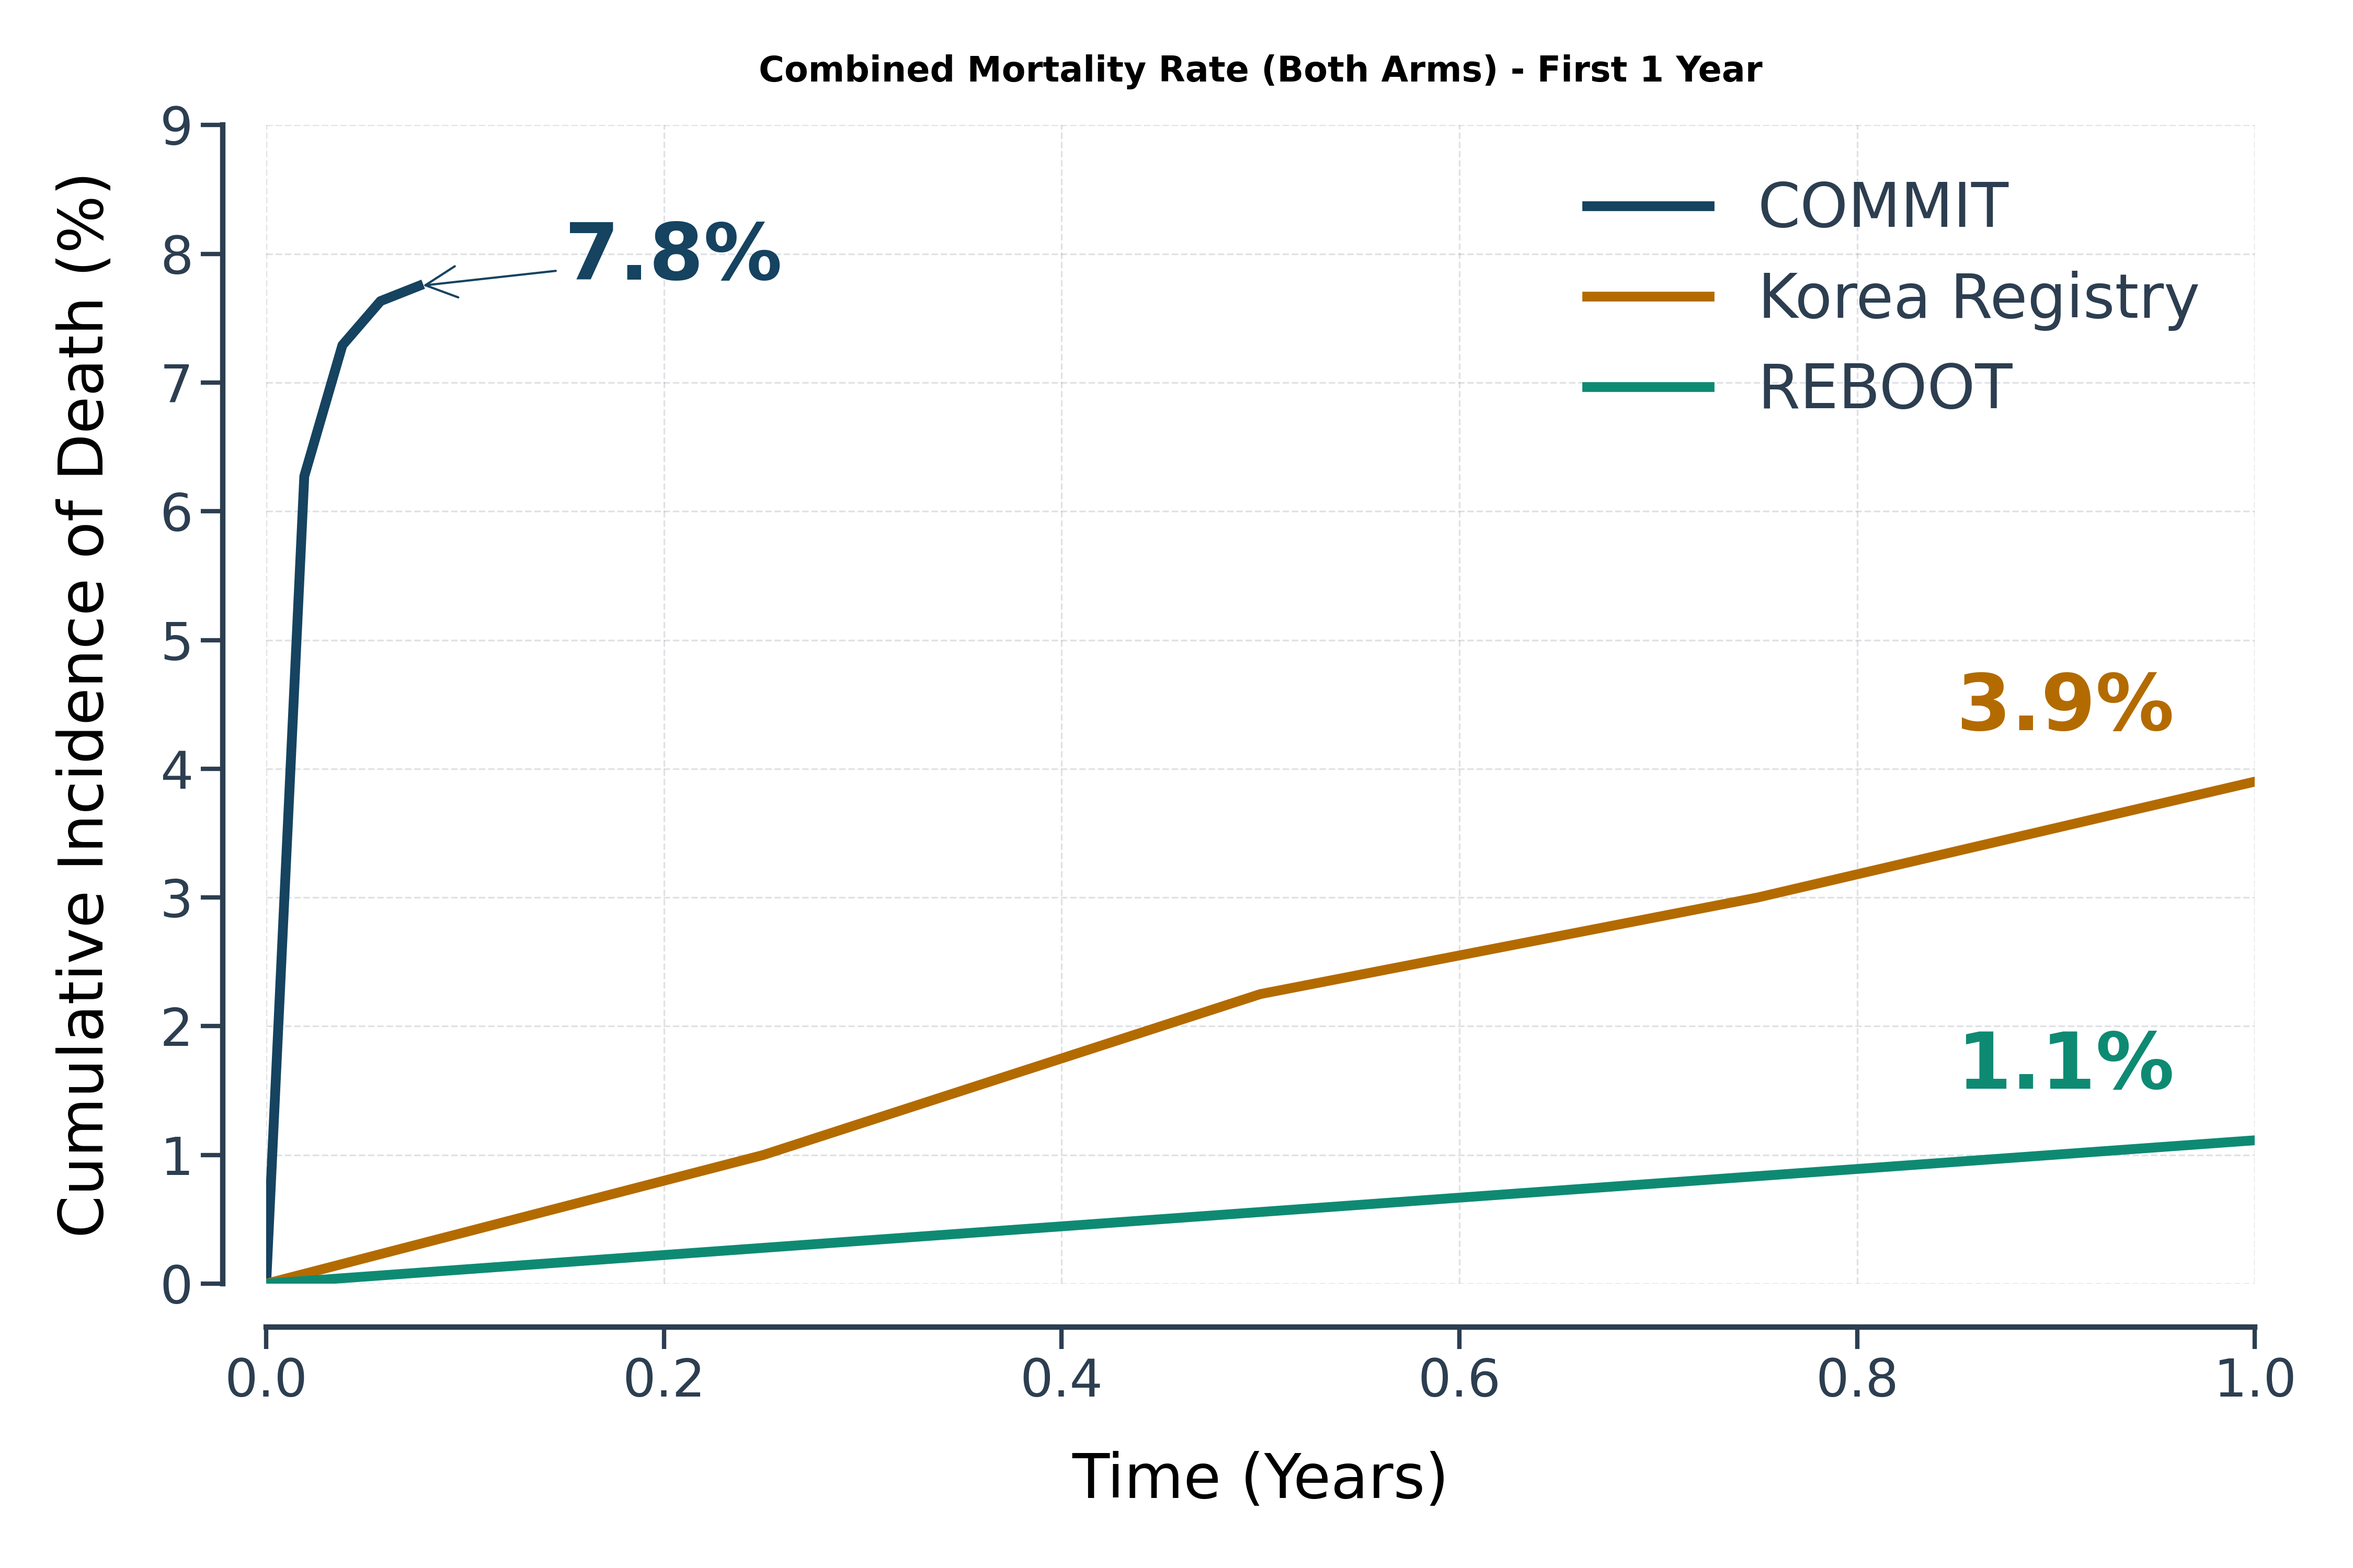
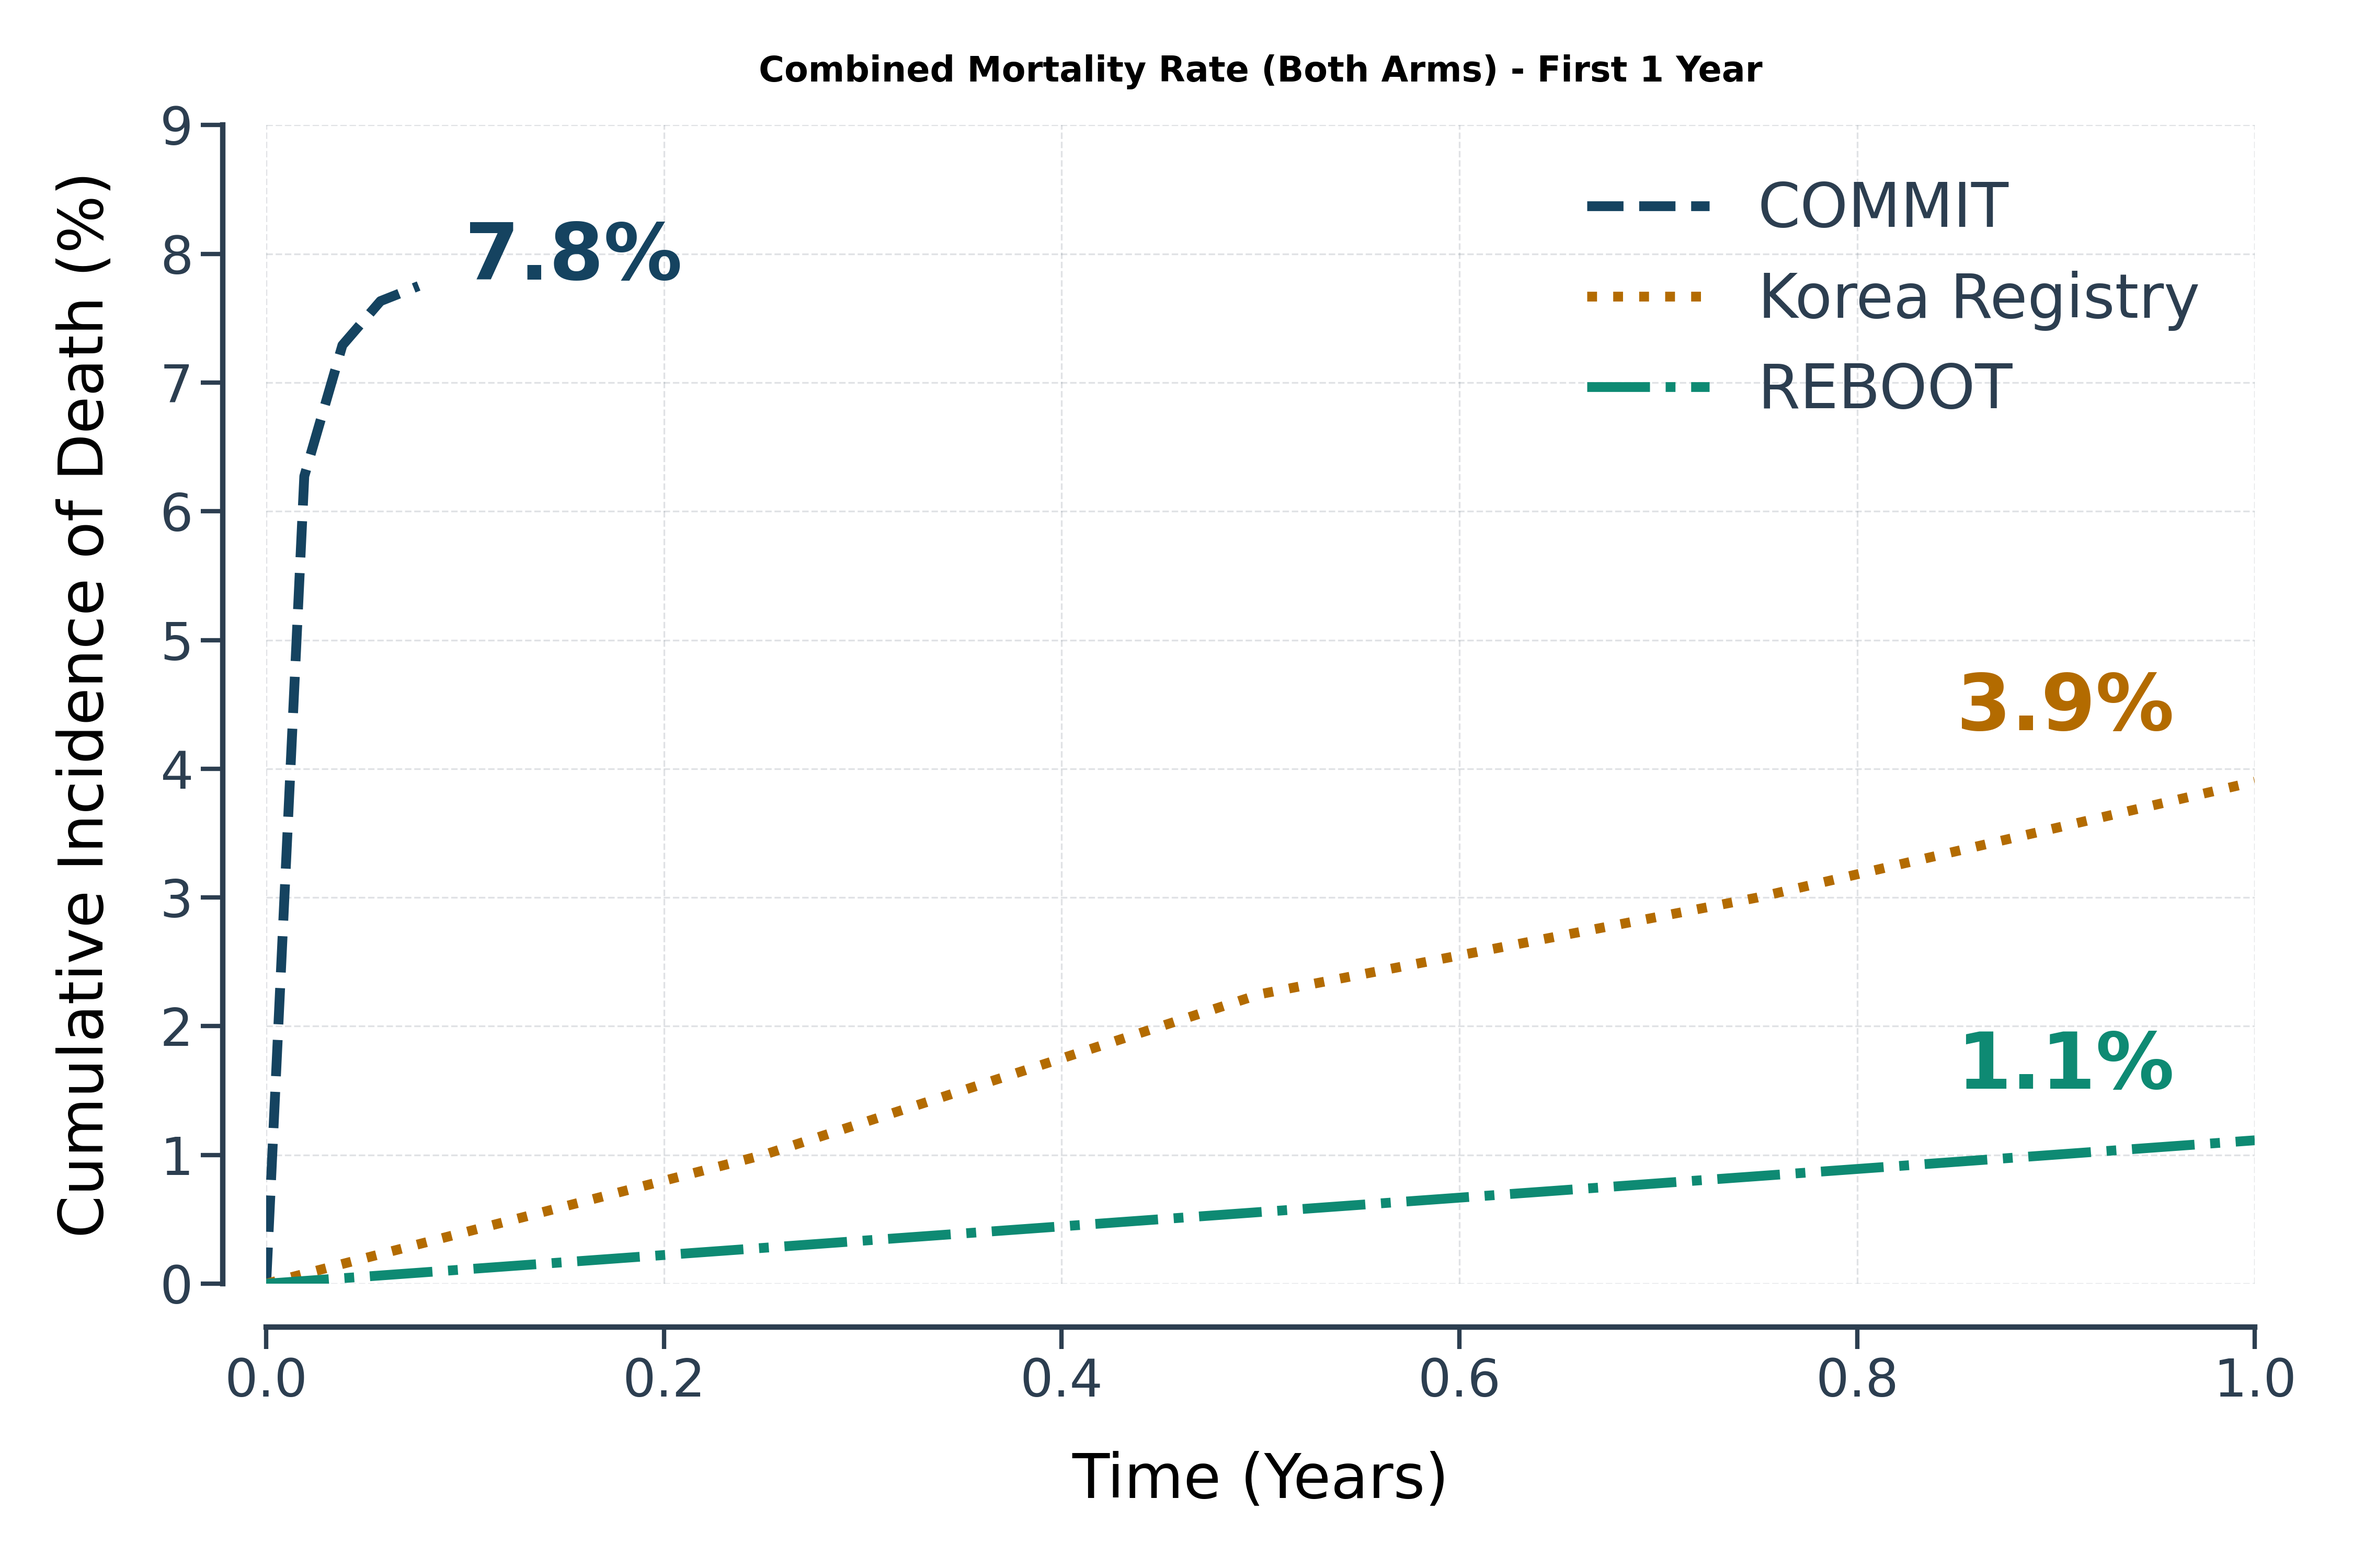
u

diff --git a/playground/Plots/BB_KM3.py b/playground/Plots/BB_KM3.py
@@ -1,0 +1,106 @@
+import matplotlib.pyplot as plt
+import numpy as np
+from scipy.interpolate import PchipInterpolator
+
+# ---------------------------------------------------------
+# DATA PREPARATION (Corrected for Natural Shape)
+# ---------------------------------------------------------
+
+# 1. REBOOT Trial (Linear Risk)
+# The original trial is a steady accumulation of events.
+# 0 -> 1.2% at 1 year.
+x_reboot = np.array([0, 1.0])
+y_reboot = np.array([0, 1.2]) 
+
+# 2. Norwegian Registry (LVEF >= 50%)
+# "Early drop" means steep mortality rise in first 3 months.
+# Data: 0 -> 2.5% (3mo) -> 4.0% (1yr)
+x_norway_best = np.array([0, 0.25, 1.0])
+y_norway_best = np.array([0, 2.5,  4.0])
+
+# 3. Norwegian Registry (All Patients - High Risk)
+# Very steep early mortality.
+# Data: 0 -> 6.0% (3mo) -> 9.0% (1yr)
+x_norway_all = np.array([0, 0.25, 1.0])
+y_norway_all = np.array([0, 6.0,  9.0])
+
+
+# ---------------------------------------------------------
+# SMOOTHING (Monotonic)
+# ---------------------------------------------------------
+def get_natural_curve(x, y, num_points=300):
+    # PchipInterpolator guarantees the curve is monotonic (no wiggles)
+    pch = PchipInterpolator(x, y)
+    x_smooth = np.linspace(x.min(), x.max(), num_points)
+    y_smooth = pch(x_smooth)
+    return x_smooth, y_smooth
+
+x_reboot_smooth, y_reboot_smooth = get_natural_curve(x_reboot, y_reboot)
+x_norway_best_smooth, y_norway_best_smooth = get_natural_curve(x_norway_best, y_norway_best)
+x_norway_all_smooth, y_norway_all_smooth = get_natural_curve(x_norway_all, y_norway_all)
+
+# ---------------------------------------------------------
+# PLOTTING (Dark Stitch Theme)
+# ---------------------------------------------------------
+# Colors sampled from the provided Stitch image
+bg_color = '#231F34'       # Deep Navy/Purple Background
+grid_color = '#3E3B50'     # Subtle Grid
+text_color = '#E0E0E0'     # Off-white for text
+
+# REBOOT: Brighter Cyan/Light Blue (was #4FC3F7)
+col_reboot = '#00E5FF'
+
+# Norway Best: Brighter Yellow/Gold (was #F9A825)
+col_norway_b = '#FFD700'
+
+# Norway All: Brighter, more vivid Red (was #FF5252)
+col_norway_a = '#FF3333'
+
+fig, ax = plt.subplots(figsize=(15, 10))
+fig.patch.set_facecolor(bg_color)
+ax.set_facecolor(bg_color)
+
+# Plotting
+ax.plot(x_norway_all_smooth, y_norway_all_smooth, color=col_norway_a, linewidth=4.5, alpha=1, linestyle='dotted', label='Norwegian Registry (All Patients)')
+ax.plot(x_norway_best_smooth, y_norway_best_smooth, color=col_norway_b, linewidth=4.5, alpha=1, linestyle='--', label='Norwegian Registry (LVEF ≥50% w/o HF)')
+ax.plot(x_reboot_smooth, y_reboot_smooth, color=col_reboot, linewidth=4.5, linestyle='-.', label='REBOOT (Both Arms)')
+
+# Styling
+ax.set_title('Mortality: REBOOT Trial vs Norwegian Registry (1 Year)', fontsize=20, color=text_color, fontweight='bold', pad=20)
+ax.set_xlabel('Time (Years)', fontsize=28, color=text_color, labelpad=10)
+ax.set_ylabel('Cumulative Mortality (%)', fontsize=28, color=text_color, labelpad=10)
+
+# Axes & Grid
+ax.spines['top'].set_visible(False)
+ax.spines['right'].set_visible(False)
+ax.spines['bottom'].set_color(text_color)
+ax.spines['left'].set_color(text_color)
+
+# Modern Detached Axes
+ax.spines['left'].set_position(('outward', 20))
+ax.spines['bottom'].set_position(('outward', 20))
+ax.spines['left'].set_linewidth(2.5)
+ax.spines['bottom'].set_linewidth(2.5)
+
+
+
+ax.tick_params(axis='both', which='major', colors=text_color, labelsize=24, length=10, width=2)
+ax.grid(color=grid_color, linestyle=':', linewidth=1, alpha=0.5)
+
+# Limits
+ax.set_xlim(0, 1.0)
+ax.set_ylim(0, 12)  # Tight fit for 1 year data
+
+# Annotations (Directly on the graph)
+ax.text(1.02, y_norway_all[-1], f"{y_norway_all[-1]}%", color=col_norway_a, fontsize=36, fontweight='bold', va='center')
+ax.text(1.02, y_norway_best[-1], f"{y_norway_best[-1]}%", color=col_norway_b, fontsize=36, fontweight='bold', va='center')
+ax.text(1.02, y_reboot[-1], f"{y_reboot[-1]}%", color=col_reboot, fontsize=36, fontweight='bold', va='center')
+
+# Legend
+legend = ax.legend(fontsize=28, loc='upper left', frameon=False)
+for text in legend.get_texts():
+    text.set_color(text_color)
+
+plt.tight_layout()
+plt.savefig('playground/Plots/reboot_vs_norway.png', dpi=300, bbox_inches='tight', transparent=True)
+#plt.show()

diff --git a/playground/Plots/BB_KM2.py b/playground/Plots/BB_KM2.py
@@ -1,0 +1,99 @@
+import matplotlib.pyplot as plt
+import numpy as np
+from scipy.interpolate import make_interp_spline
+
+# ---------------------------------------------------------
+# DATA PREPARATION
+# ---------------------------------------------------------
+
+# 1. REBOOT Trial (Stable, linear risk)
+# Added 0.25 (3mo) and 0.5 (6mo) points based on linear incidence (~1.2% per year)
+x_reboot = np.array([0, 0.25, 0.5, 1, 2, 3, 4, 5])
+y_reboot = np.array([0, 0.3,  0.6, 1.2, 2.4, 3.6, 4.8, 5.6])
+
+# 2. Norwegian Registry (LVEF >= 50% No Symptoms)
+# Steep early rise
+x_norway_best = np.array([0, 0.25, 0.5, 1, 2, 3, 4, 5])
+y_norway_best = np.array([0, 2.8,  4.2, 6.5, 10.2, 13.0, 15.8, 18.0])
+
+# 3. Norwegian Registry (All Patients)
+# Very steep early rise
+x_norway_all = np.array([0, 0.25, 0.5, 1, 2, 3, 4, 5])
+y_norway_all = np.array([0, 5.0,  7.5, 11.0, 16.5, 20.5, 23.8, 26.6])
+
+
+# ---------------------------------------------------------
+# SMOOTHING
+# ---------------------------------------------------------
+def get_smooth_curve(x, y, num_points=300):
+    spl = make_interp_spline(x, y, k=2) 
+    x_smooth = np.linspace(x.min(), x.max(), num_points)
+    y_smooth = spl(x_smooth)
+    y_smooth[y_smooth < 0] = 0
+    return x_smooth, y_smooth
+
+x_reboot_smooth, y_reboot_smooth = get_smooth_curve(x_reboot, y_reboot)
+x_norway_best_smooth, y_norway_best_smooth = get_smooth_curve(x_norway_best, y_norway_best)
+x_norway_all_smooth, y_norway_all_smooth = get_smooth_curve(x_norway_all, y_norway_all)
+
+# ---------------------------------------------------------
+# PLOTTING
+# ---------------------------------------------------------
+color_reboot      = '#0E8A73'  # Deep Teal
+color_norway_best = '#B36B00'  # Dark Gold
+color_norway_all  = '#C0392B'  # Deep Terra Cotta
+color_text        = '#2C3E50'
+
+fig, ax = plt.subplots(figsize=(10, 7))
+
+# Style
+plt.rcParams.update({
+    'font.family': 'sans-serif',
+    'text.color': color_text,
+    'axes.labelcolor': color_text,
+    'xtick.color': color_text,
+    'ytick.color': color_text
+})
+
+# Axes
+ax.spines['left'].set_position(('outward', 10))
+ax.spines['bottom'].set_position(('outward', 10))
+ax.spines['right'].set_visible(False)
+ax.spines['top'].set_visible(False)
+ax.spines['left'].set_color(color_text)
+ax.spines['bottom'].set_color(color_text)
+ax.spines['left'].set_linewidth(1.5)
+ax.spines['bottom'].set_linewidth(1.5)
+ax.tick_params(axis='both', which='major', labelsize=14, length=10, width=2)
+
+# Plot
+ax.plot(x_norway_all_smooth, y_norway_all_smooth, color=color_norway_all, linewidth=3.5, linestyle=':', label='Norwegian Registry (All Patients)')
+ax.plot(x_norway_best_smooth, y_norway_best_smooth, color=color_norway_best, linewidth=3.5, linestyle='--', label='Norwegian Registry (LVEF ≥50%)')
+ax.plot(x_reboot_smooth, y_reboot_smooth, color=color_reboot, linewidth=3.5, label='REBOOT (Combined)')
+
+# Labels
+ax.set_title('Mortality: REBOOT Trial vs Norwegian Registry', fontsize=18, pad=20, fontweight='bold', color=color_text)
+ax.set_xlabel('Time (Years)', fontsize=16, color=color_text, labelpad=20)
+ax.set_ylabel('Cumulative Incidence of Death (%)', fontsize=16, color=color_text, labelpad=20)
+ax.set_xlim(0, 5.0)
+ax.set_ylim(0, 30)
+
+# Annotations
+ax.annotate(f"{y_norway_all[-1]:.1f}%", xy=(5.0, y_norway_all[-1]), xytext=(5.1, y_norway_all[-1]),
+             fontsize=12, color=color_norway_all, fontweight='bold', va='center')
+ax.annotate(f"{y_norway_best[-1]:.1f}%", xy=(5.0, y_norway_best[-1]), xytext=(5.1, y_norway_best[-1]),
+             fontsize=12, color=color_norway_best, fontweight='bold', va='center')
+ax.annotate(f"{y_reboot[-1]:.1f}%", xy=(5.0, y_reboot[-1]), xytext=(5.1, y_reboot[-1]),
+             fontsize=12, color=color_reboot, fontweight='bold', va='center')
+
+# Legend
+legend = ax.legend(fontsize=12, loc='upper left', frameon=False)
+for text in legend.get_texts():
+    text.set_color(color_text)
+
+# Grid
+ax.grid(True, alpha=0.15, color=color_text, linestyle='--')
+
+plt.tight_layout()
+#plt.savefig('reboot_vs_norway_points_added.png', transparent=True, dpi=300)
+plt.show()

diff --git a/playground/Plots/BB_KM1.py b/playground/Plots/BB_KM1.py
@@ -61,9 +61,9 @@ ax.spines['left'].set_linewidth(2.5)
 ax.spines['bottom'].set_linewidth(2.5)
 
 # Plotting with the New Colors
-ax.plot(x_commit, y_commit, color=color_commit, linewidth=4.5, label='COMMIT')
-ax.plot(x_korea, y_korea, color=color_korea, linewidth=4.5, label='Korea Registry')
-ax.plot(x_reboot, y_reboot, color=color_reboot, linewidth=4.5, label='REBOOT')
+ax.plot(x_commit, y_commit, color=color_commit, linewidth=4.5, label='COMMIT', linestyle='--')
+ax.plot(x_korea, y_korea, color=color_korea, linewidth=4.5, label='Korea Registry', linestyle=':')
+ax.plot(x_reboot, y_reboot, color=color_reboot, linewidth=4.5, label='REBOOT', linestyle='-.')
 ax.tick_params(axis='both', which='major', labelsize=24, length=10, width=2)
 
 # Labels & Annotations
@@ -74,8 +74,7 @@ ax.set_xlim(0, 1.0)
 ax.set_ylim(0, 9)
 
 # Colored Annotations to match lines
-ax.annotate(f"{y_commit[-1]:.1f}%", xy=(x_commit[-1], y_commit[-1]), xytext=(0.15, 7.8),
-             arrowprops=dict(facecolor=color_commit, edgecolor=color_commit, arrowstyle='->'), 
+ax.annotate(f"{y_commit[-1]:.1f}%", xy=(x_commit[-1], y_commit[-1]), xytext=(0.1, 7.8),
              fontsize=36, color=color_commit, fontweight='bold')
 
 ax.annotate(f"{y_korea[-1]:.1f}%", xy=(1.0, y_korea[-1]), xytext=(0.85, y_korea[-1]+0.4), 
